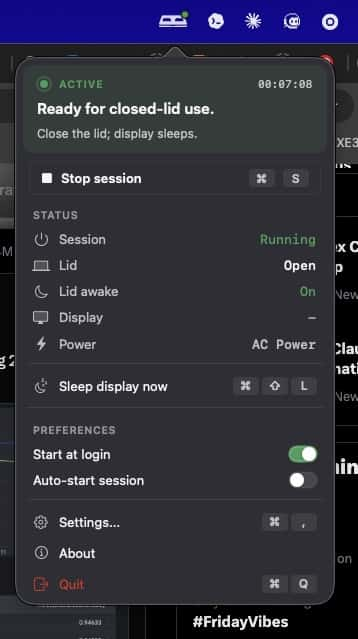
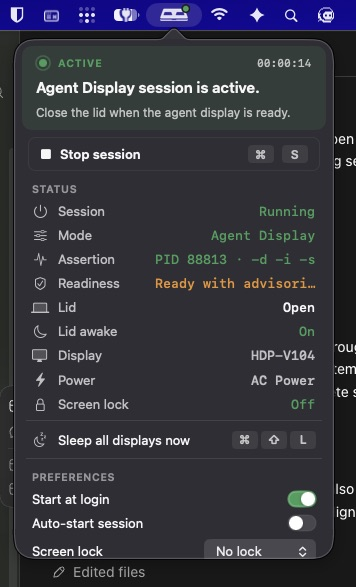
Update Clolid menu screenshot

diff --git a/README.md b/README.md
@@ -8,6 +8,10 @@ Clolid is a lightweight macOS menu bar app for closed-lid desk and unattended-ag
 
 The app is intentionally small: it wraps the system power tools needed for this workflow instead of trying to replace a full power-management utility.
 
+<p align="center">
+  <img src="docs/assets/clolid-menu.jpeg" alt="Clolid Agent Display session menu showing status and readiness" width="356">
+</p>
+
 ## Features
 
 - Start and stop a closed-lid awake session from the menu bar.
